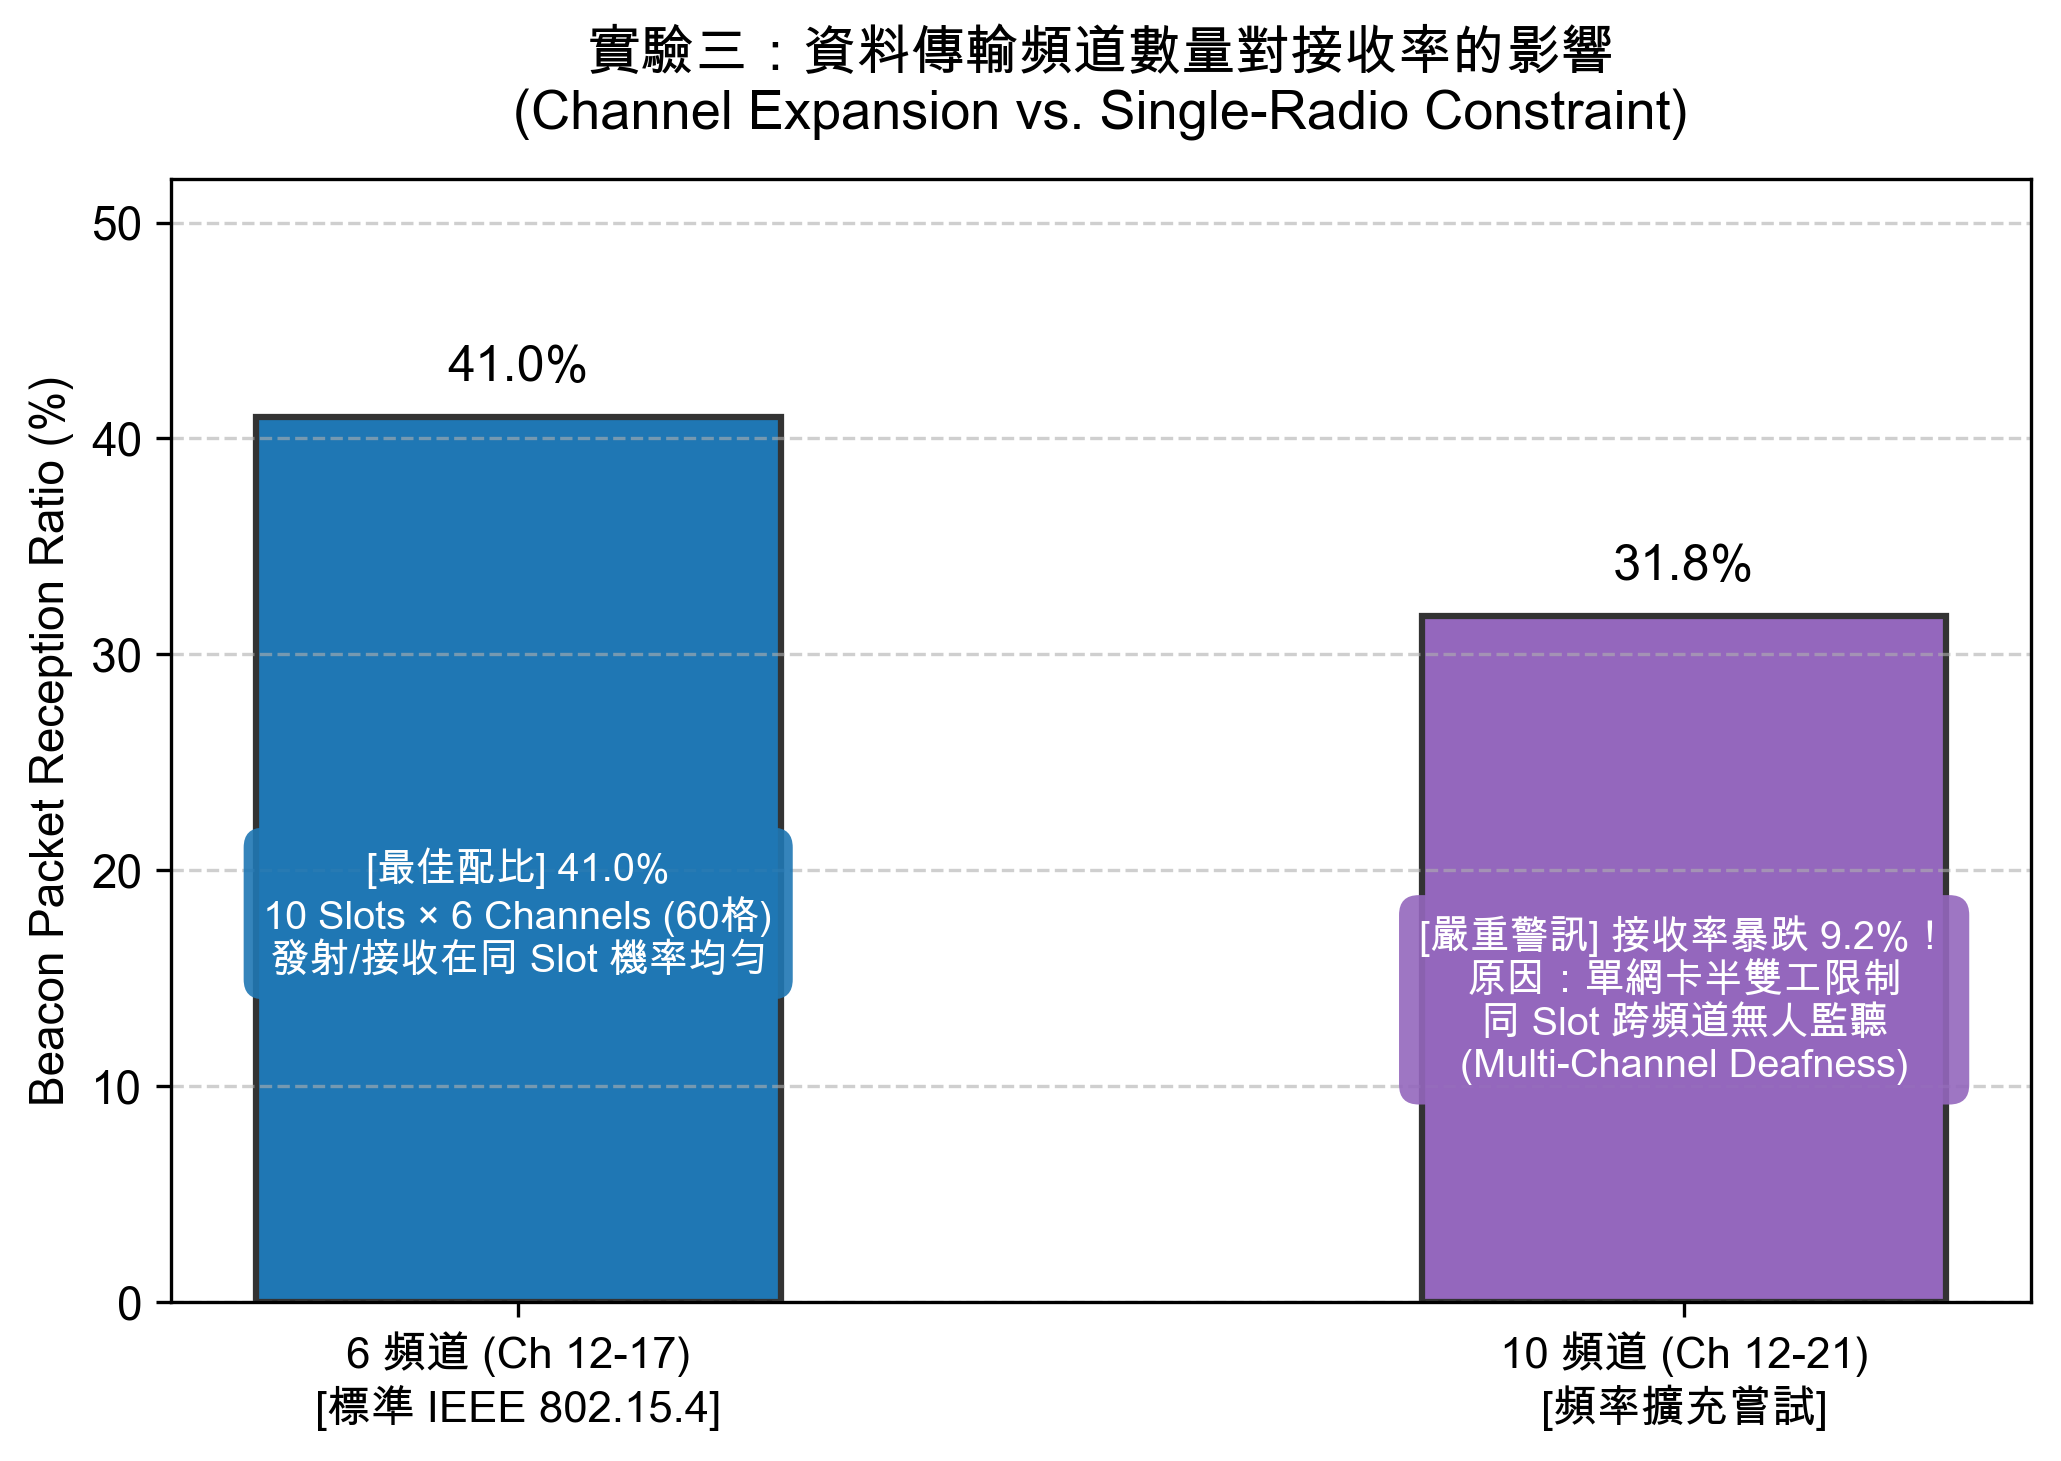
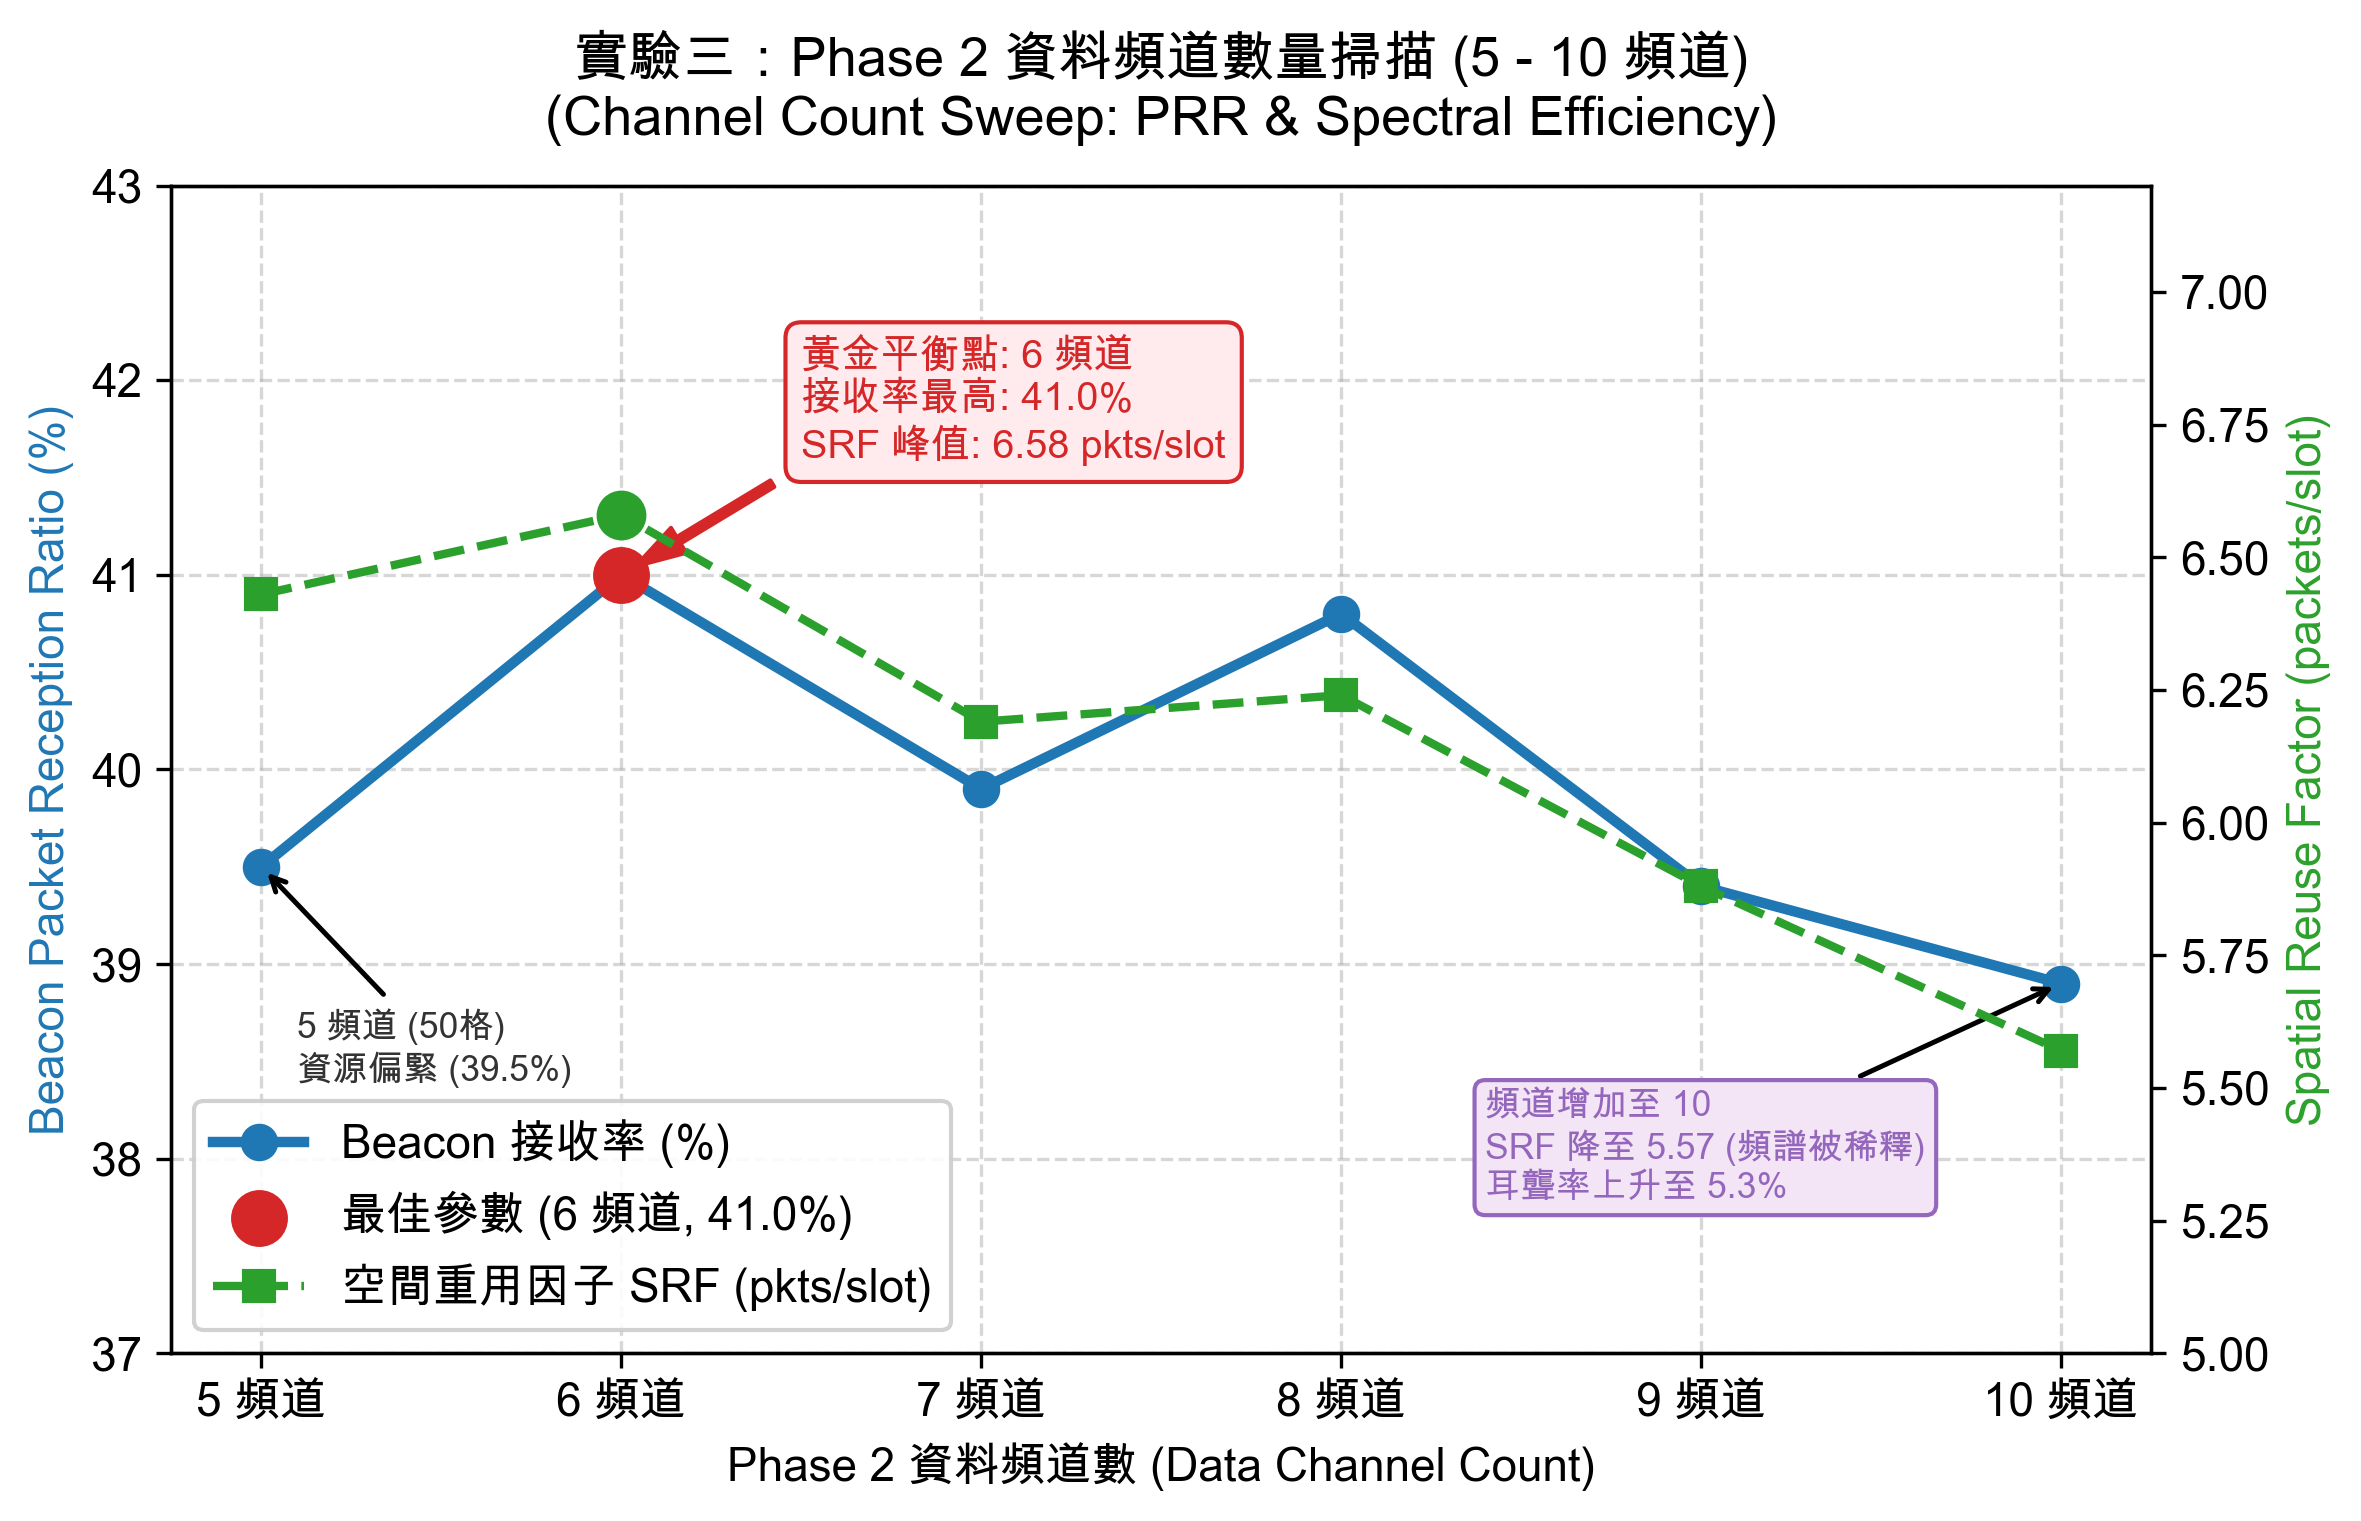
feat: update experiment 3 charts and analysis with real 5-10 channels sweep data

diff --git a/plot_experiments.py b/plot_experiments.py
@@ -122,33 +122,57 @@ def plot_exp2():
 # 3. Experiment 3: Channel Count Sweep
 # ==========================================
 def plot_exp3():
-    channels = ['6 頻道 (Ch 12-17)\n[標準 IEEE 802.15.4]', '10 頻道 (Ch 12-21)\n[頻率擴充嘗試]']
-    ratios = [41.0, 31.8]
+    ch_list = [5, 6, 7, 8, 9, 10]
+    ratios = [39.5, 41.0, 39.9, 40.8, 39.4, 38.9]
+    srfs = [6.43, 6.58, 6.19, 6.24, 5.88, 5.57]
+    deafness = [4.7, 4.7, 4.8, 4.8, 5.2, 5.3]
 
-    fig, ax = plt.subplots(figsize=(7, 5), dpi=300)
+    fig, ax1 = plt.subplots(figsize=(8, 5.2), dpi=300)
     
-    bars = ax.bar([0, 1], ratios, width=0.45, color=[PRIMARY_BLUE, ACCENT_PURPLE], edgecolor=DARK_GRAY, linewidth=1.5)
+    # Primary axis: Beacon PRR (%)
+    color_prr = PRIMARY_BLUE
+    ax1.plot(ch_list, ratios, marker='o', markersize=8, color=color_prr, linewidth=2.5, label='Beacon 接收率 (%)')
+    ax1.scatter([6], [41.0], color=ACCENT_RED, s=160, zorder=5, label='最佳參數 (6 頻道, 41.0%)')
     
-    # Bar value labels
-    for bar in bars:
-        h = bar.get_height()
-        ax.text(bar.get_x() + bar.get_width()/2., h + 1.2, f'{h:.1f}%', ha='center', va='bottom', fontsize=12, fontweight='bold')
+    # Secondary axis: SRF (packets/slot)
+    ax2 = ax1.twinx()
+    color_srf = ACCENT_GREEN
+    ax2.plot(ch_list, srfs, marker='s', markersize=7, color=color_srf, linewidth=2.0, linestyle='--', label='空間重用因子 SRF (pkts/slot)')
+    ax2.scatter([6], [6.58], color=ACCENT_GREEN, s=120, zorder=5)
 
-    # Annotation
-    ax.text(0, 18, '[最佳配比] 41.0%\n10 Slots × 6 Channels (60格)\n發射/接收在同 Slot 機率均勻',
-            ha='center', va='center', fontsize=9.5, color='white', fontweight='bold',
-            bbox=dict(boxstyle="round,pad=0.5", fc=PRIMARY_BLUE, ec="none", alpha=0.9))
+    # Highlight peak at Channel 6
+    ax1.annotate('黃金平衡點: 6 頻道\n接收率最高: 41.0%\nSRF 峰值: 6.58 pkts/slot',
+                xy=(6, 41.0), xytext=(6.5, 41.6),
+                arrowprops=dict(facecolor=ACCENT_RED, edgecolor=ACCENT_RED, shrink=0.08, width=1.8, headwidth=7),
+                fontsize=9.5, fontweight='bold', color=ACCENT_RED,
+                bbox=dict(boxstyle="round,pad=0.4", fc="#ffebee", ec=ACCENT_RED, lw=1))
 
-    ax.text(1, 14, '[嚴重警訊] 接收率暴跌 9.2%！\n原因：單網卡半雙工限制\n同 Slot 跨頻道無人監聽\n(Multi-Channel Deafness)',
-            ha='center', va='center', fontsize=9.5, color='white', fontweight='bold',
-            bbox=dict(boxstyle="round,pad=0.5", fc=ACCENT_PURPLE, ec="none", alpha=0.9))
+    # Annotation for Channel 5
+    ax1.annotate('5 頻道 (50格)\n資源偏緊 (39.5%)', xy=(5, 39.5), xytext=(5.1, 38.4),
+                 arrowprops=dict(facecolor=DARK_GRAY, arrowstyle="->", lw=1.2),
+                 fontsize=8.5, color=DARK_GRAY)
 
-    ax.set_title('實驗三：資料傳輸頻道數量對接收率的影響\n(Channel Expansion vs. Single-Radio Constraint)', fontsize=13, fontweight='bold', pad=12)
-    ax.set_ylabel('Beacon Packet Reception Ratio (%)', fontsize=11, fontweight='bold')
-    ax.set_xticks([0, 1])
-    ax.set_xticklabels(channels, fontsize=10.5, fontweight='bold')
-    ax.set_ylim(0, 52)
-    ax.grid(axis='y', linestyle='--', alpha=0.6)
+    # Annotation for Channel 10
+    ax1.annotate('頻道增加至 10\nSRF 降至 5.57 (頻譜被稀釋)\n耳聾率上升至 5.3%', xy=(10, 38.9), xytext=(8.4, 37.8),
+                 arrowprops=dict(facecolor=ACCENT_PURPLE, arrowstyle="->", lw=1.2),
+                 fontsize=8.5, fontweight='bold', color=ACCENT_PURPLE,
+                 bbox=dict(boxstyle="round,pad=0.3", fc="#f3e5f5", ec=ACCENT_PURPLE, lw=1))
+
+    ax1.set_title('實驗三：Phase 2 資料頻道數量掃描 (5 - 10 頻道)\n(Channel Count Sweep: PRR & Spectral Efficiency)', fontsize=13, fontweight='bold', pad=12)
+    ax1.set_xlabel('Phase 2 資料頻道數 (Data Channel Count)', fontsize=11, fontweight='bold')
+    ax1.set_ylabel('Beacon Packet Reception Ratio (%)', fontsize=11, fontweight='bold', color=color_prr)
+    ax2.set_ylabel('Spatial Reuse Factor (packets/slot)', fontsize=11, fontweight='bold', color=color_srf)
+    
+    ax1.set_xticks(ch_list)
+    ax1.set_xticklabels([f'{c} 頻道' for c in ch_list])
+    ax1.set_ylim(37, 43)
+    ax2.set_ylim(5.0, 7.2)
+    ax1.grid(True, linestyle='--', alpha=0.5)
+
+    # Combine legends
+    lines1, labels1 = ax1.get_legend_handles_labels()
+    lines2, labels2 = ax2.get_legend_handles_labels()
+    ax1.legend(lines1 + lines2, labels1 + labels2, loc='lower left', frameon=True, framealpha=0.9)
 
     out_name = "exp3_channel_count.png"
     p_ws = os.path.join(WORKSPACE_DIR, out_name)
@@ -241,17 +265,20 @@ def plot_combined():
 
     # Subplot 3
     ax3 = axes[1, 0]
-    bars = ax3.bar([0, 1], [41.0, 31.8], width=0.4, color=[PRIMARY_BLUE, ACCENT_PURPLE], edgecolor=DARK_GRAY)
-    ax3.set_title('(C) 實驗三：Phase 2 資料頻道數對比', fontsize=12, fontweight='bold')
+    ch3 = [5, 6, 7, 8, 9, 10]
+    r3 = [39.5, 41.0, 39.9, 40.8, 39.4, 38.9]
+    ax3.plot(ch3, r3, marker='o', color=PRIMARY_BLUE, lw=2.2)
+    ax3.scatter([6], [41.0], color=ACCENT_RED, s=120, zorder=5)
+    ax3.set_title('(C) 實驗三：Phase 2 資料頻道數掃描 (5-10 頻道)', fontsize=12, fontweight='bold')
+    ax3.set_xlabel('資料頻道數 (Channels)', fontsize=10)
     ax3.set_ylabel('Reception Ratio (%)', fontsize=10)
-    ax3.set_xticks([0, 1])
-    ax3.set_xticklabels(['6 頻道 (最佳: 41.0%)', '10 頻道 (暴跌: 31.8%)'], fontsize=10, fontweight='bold')
-    ax3.text(0, 42, '41.0%', ha='center', fontweight='bold', fontsize=11)
-    ax3.text(1, 33, '31.8%', ha='center', fontweight='bold', fontsize=11)
-    ax3.text(1, 15, '單天線多頻道\n耳聾衝突加劇', ha='center', fontsize=9, color='white',
-             bbox=dict(boxstyle="round,pad=0.3", fc=ACCENT_PURPLE, ec="none"))
-    ax3.grid(axis='y', linestyle='--', alpha=0.5)
-    ax3.set_ylim(0, 50)
+    ax3.annotate('最佳點: 6 頻道 (41.0%)\n超過後頻譜稀釋、耳聾增加', xy=(6, 41.0), xytext=(6.5, 39.6),
+                 arrowprops=dict(facecolor=ACCENT_RED, arrowstyle="->", lw=1.5),
+                 fontsize=9, fontweight='bold', color=ACCENT_RED)
+    ax3.set_xticks(ch3)
+    ax3.set_xticklabels(['5', '6', '7', '8', '9', '10'])
+    ax3.grid(True, linestyle='--', alpha=0.5)
+    ax3.set_ylim(37, 43)
 
     # Subplot 4
     ax4 = axes[1, 1]
